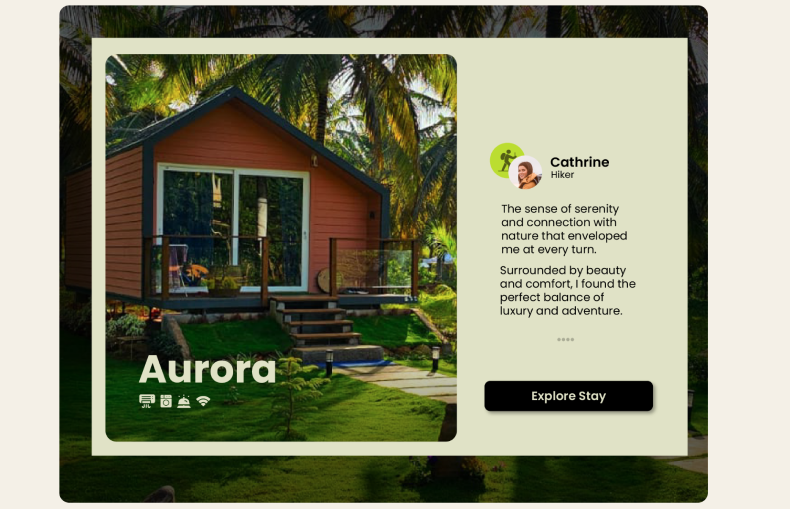
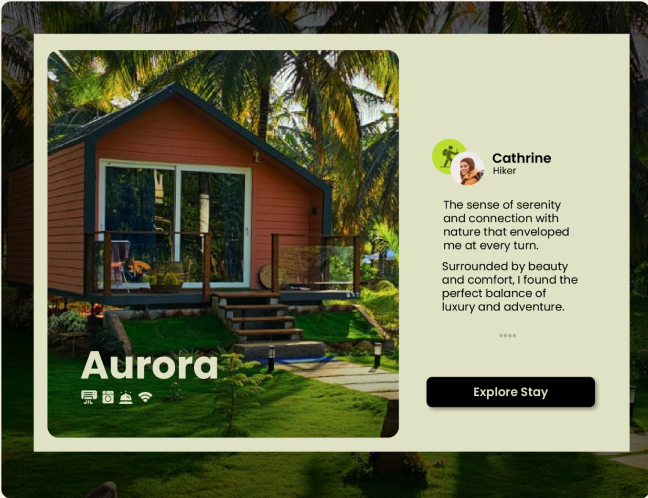
add shadow and crop images

diff --git a/app/work/mvup/page.js b/app/work/mvup/page.js
@@ -4,17 +4,6 @@ import Layout from "@/components/Layout";
 import Image from "next/image";
 import Vimeo from "@u-wave/react-vimeo";
 
-import {
-  AUDIENCE_CARDS,
-  CHALLENGES_LIST,
-  COMPETITOR_LIST,
-  IMPLEMENTATION_LIST,
-  KEY_FINDINGS,
-  MARKET_SEGMENT_LIST,
-  TRENDS_LIST,
-  USER_RESEARCH_LIST,
-} from "./constants";
-
 export default function Mvup() {
   return (
     <Layout>
@@ -191,7 +180,7 @@ export default function Mvup() {
             <div className="text-2xl my-5 font-semibold ">
               Product Use Cases, Vision & USPs
             </div>
-            <div className="flex flex-col justify-center  items-center space-y-6   shadow-pink p-6 bg-[#FFFCDE] w-[1200px] h-[1174px]">
+            <div className="flex flex-col justify-center items-center space-y-6 shadow-pink p-6 bg-[#FFFCDE] w-[1200px] h-[1174px] rounded">
               <Image
                 className="mx-auto rounded-lg"
                 src="/images/mvp1.png"
@@ -236,7 +225,7 @@ export default function Mvup() {
                 </li>
               </ul>
             </div>
-            <div className="flex flex-col justify-center mt-5 items-center space-y-6 shadow-pink p-6 bg-[#F2F2F2] ">
+            <div className="flex flex-col justify-center mt-5 items-center space-y-6 shadow-pink p-6 bg-[#F2F2F2] rounded">
               <Image
                 className="mx-auto rounded-lg"
                 src="/images/mvp3.png"
@@ -268,7 +257,7 @@ export default function Mvup() {
                   of MVUP.
                 </li>
               </ul>
-              <div className="flex flex-col justify-center mt-5 items-center space-y-6 shadow-pink p-6 bg-[#F2F2F2] w-[1200px]">
+              <div className="flex flex-col justify-center mt-5 items-center space-y-6 shadow-pink p-6 bg-[#F2F2F2] w-[1200px] rounded">
                 <Image
                   className="mx-auto rounded-lg"
                   src="/images/mvp4.png"
@@ -295,7 +284,7 @@ export default function Mvup() {
             <div className="text-3xl font-semibold">
               Wireframes of some final designs:{" "}
             </div>
-            <div className="flex flex-col justify-center mt-5 items-center space-y-6 shadow-pink p-6 bg-[#F2F2F2] w-[1200px]  ">
+            <div className="flex flex-col justify-center mt-5 items-center space-y-6 shadow-pink p-6 bg-[#F2F2F2] w-[1200px] rounded">
               {" "}
               <Image
                 className="mx-auto rounded-lg"
@@ -333,7 +322,7 @@ export default function Mvup() {
         <div className="bg-white w-full">
           <div className="max-w-[1200px] mx-auto py-14 font-crimson">
             <div className="text-3xl font-semibold">Mobile View: </div>
-            <div className=" flex justify-center items-center  mt-5  shadow-pink p-6 bg-[#F2F2F2] w-[1200px] h-[600px]">
+            <div className=" flex justify-center items-center  mt-5  shadow-pink p-6 bg-[#F2F2F2] w-[1200px] h-[600px] rounded">
               <Image
                 className="mx-auto rounded-lg"
                 src="/images/mvp8.png"
@@ -358,7 +347,7 @@ export default function Mvup() {
             <div className="text-3xl font-semibold">
               Marketing Reel for MVUP:{" "}
             </div>
-            <div className="flex justify-center items-center mt-5  shadow-pink p-6 bg-[#F2F2F2] w-[1200px] ">
+            <div className="flex justify-center items-center mt-5  shadow-pink p-6 bg-[#F2F2F2] w-[1200px] rounded">
               <div className="w-[375px] ">
                 <iframe
                   width="100%"
@@ -396,14 +385,14 @@ export default function Mvup() {
                 width={726}
               />
             </div>
-             <div
-                    onClick={() => {
-                      window.location.assign("https://mvup.leanpitch.com/");
-                    }}
-                    className="rounded-3xl text-sm mt-4 font-semibold bg-[#0D1A71] text-white py-2 px-5 w-fit drop-shadow-sm cursor-pointer mx-auto"
-                  >
-                    Vist Mvup <span className="ml-2">→</span>
-                  </div>
+            <div
+              onClick={() => {
+                window.location.assign("https://mvup.leanpitch.com/");
+              }}
+              className="rounded-3xl text-sm mt-4 font-semibold bg-[#0D1A71] text-white py-2 px-5 w-fit drop-shadow-sm cursor-pointer mx-auto"
+            >
+              Vist Mvup <span className="ml-2">→</span>
+            </div>
           </div>
         </div>
 

diff --git a/app/work/glampies/page.js b/app/work/glampies/page.js
@@ -29,18 +29,18 @@ export default function Glampies() {
             </div>
             <div className="bg-[#F8E8FF] p-3 rounded-xl text-2xl  mt-8">
               <span className="font-semibold">My Role: <br />
-              As the Content Designer for the Glampies, my role encompassed:{" "}</span>
+                As the Content Designer for the Glampies, my role encompassed:{" "}</span>
               <br />
               <ul className="list-disc ml-6">
                 <li>
-                  
-                <span className="font-semibold">Content Designing:</span> Developed comprehensive content that
+
+                  <span className="font-semibold">Content Designing:</span> Developed comprehensive content that
                   aligned with Glampies&apos; brand identity and business goals.
                   This included defining the tone of voice, key messages, and
                   content structure.
                 </li>
                 <li>
-                <span className="font-semibold">Content Creation:</span> I was responsible for{" "}
+                  <span className="font-semibold">Content Creation:</span> I was responsible for{" "}
                   <span className="text-[#8329AA] font-semibold">
                     all content-related tasks, including designing, writing,
                     editing, and testing clear, compelling in-product language,
@@ -51,13 +51,13 @@ export default function Glampies() {
                   taxonomies
                 </li>
                 <li>
-                <span className="font-semibold">Collaboration:</span> Worked closely with UX designers, web
+                  <span className="font-semibold">Collaboration:</span> Worked closely with UX designers, web
                   developers, and marketing teams to ensure the content was
                   seamlessly integrated into the website’s design and met user
                   needs.
                 </li>
                 <li>
-                <span className="font-semibold">Project Management:</span> Led the content creation process, set
+                  <span className="font-semibold">Project Management:</span> Led the content creation process, set
                   timelines, and coordinated with various stakeholders to ensure
                   the project stayed on track and met all deadlines.
                 </li>
@@ -265,7 +265,7 @@ export default function Glampies() {
         <div className="max-w-[1200px] mx-auto py-10 font-crimson">
           <div className="rounded-xl shadow-lg w-full p-6 flex justify-between  bg-[#F4F0E7]">
             <Image
-              className="mx-auto rounded-xl shadow my-10"
+              className="mx-auto my-10"
               src="/images/gl5-a.png"
               alt="gl4"
               height={629}
@@ -354,7 +354,7 @@ export default function Glampies() {
                 alt="gl8-a"
                 height={384}
                 width={702}
-                style={{ height: '100%', width: 'auto' }} 
+                style={{ height: '100%', width: 'auto' }}
               />
               <Image
                 className="mx-auto rounded-lg"
@@ -375,7 +375,7 @@ export default function Glampies() {
                 The Glampies website successfully addressed the initial
                 challenge, delivering a visually appealing and user-friendly
                 platform that effectively communicated the brand's luxurious
-                glamping experience. 
+                glamping experience.
               </div>
               <div className="max-w-[1200px] mx-auto font-crimson py-12 ">
                 <div className="text-3xl font-semibold">
